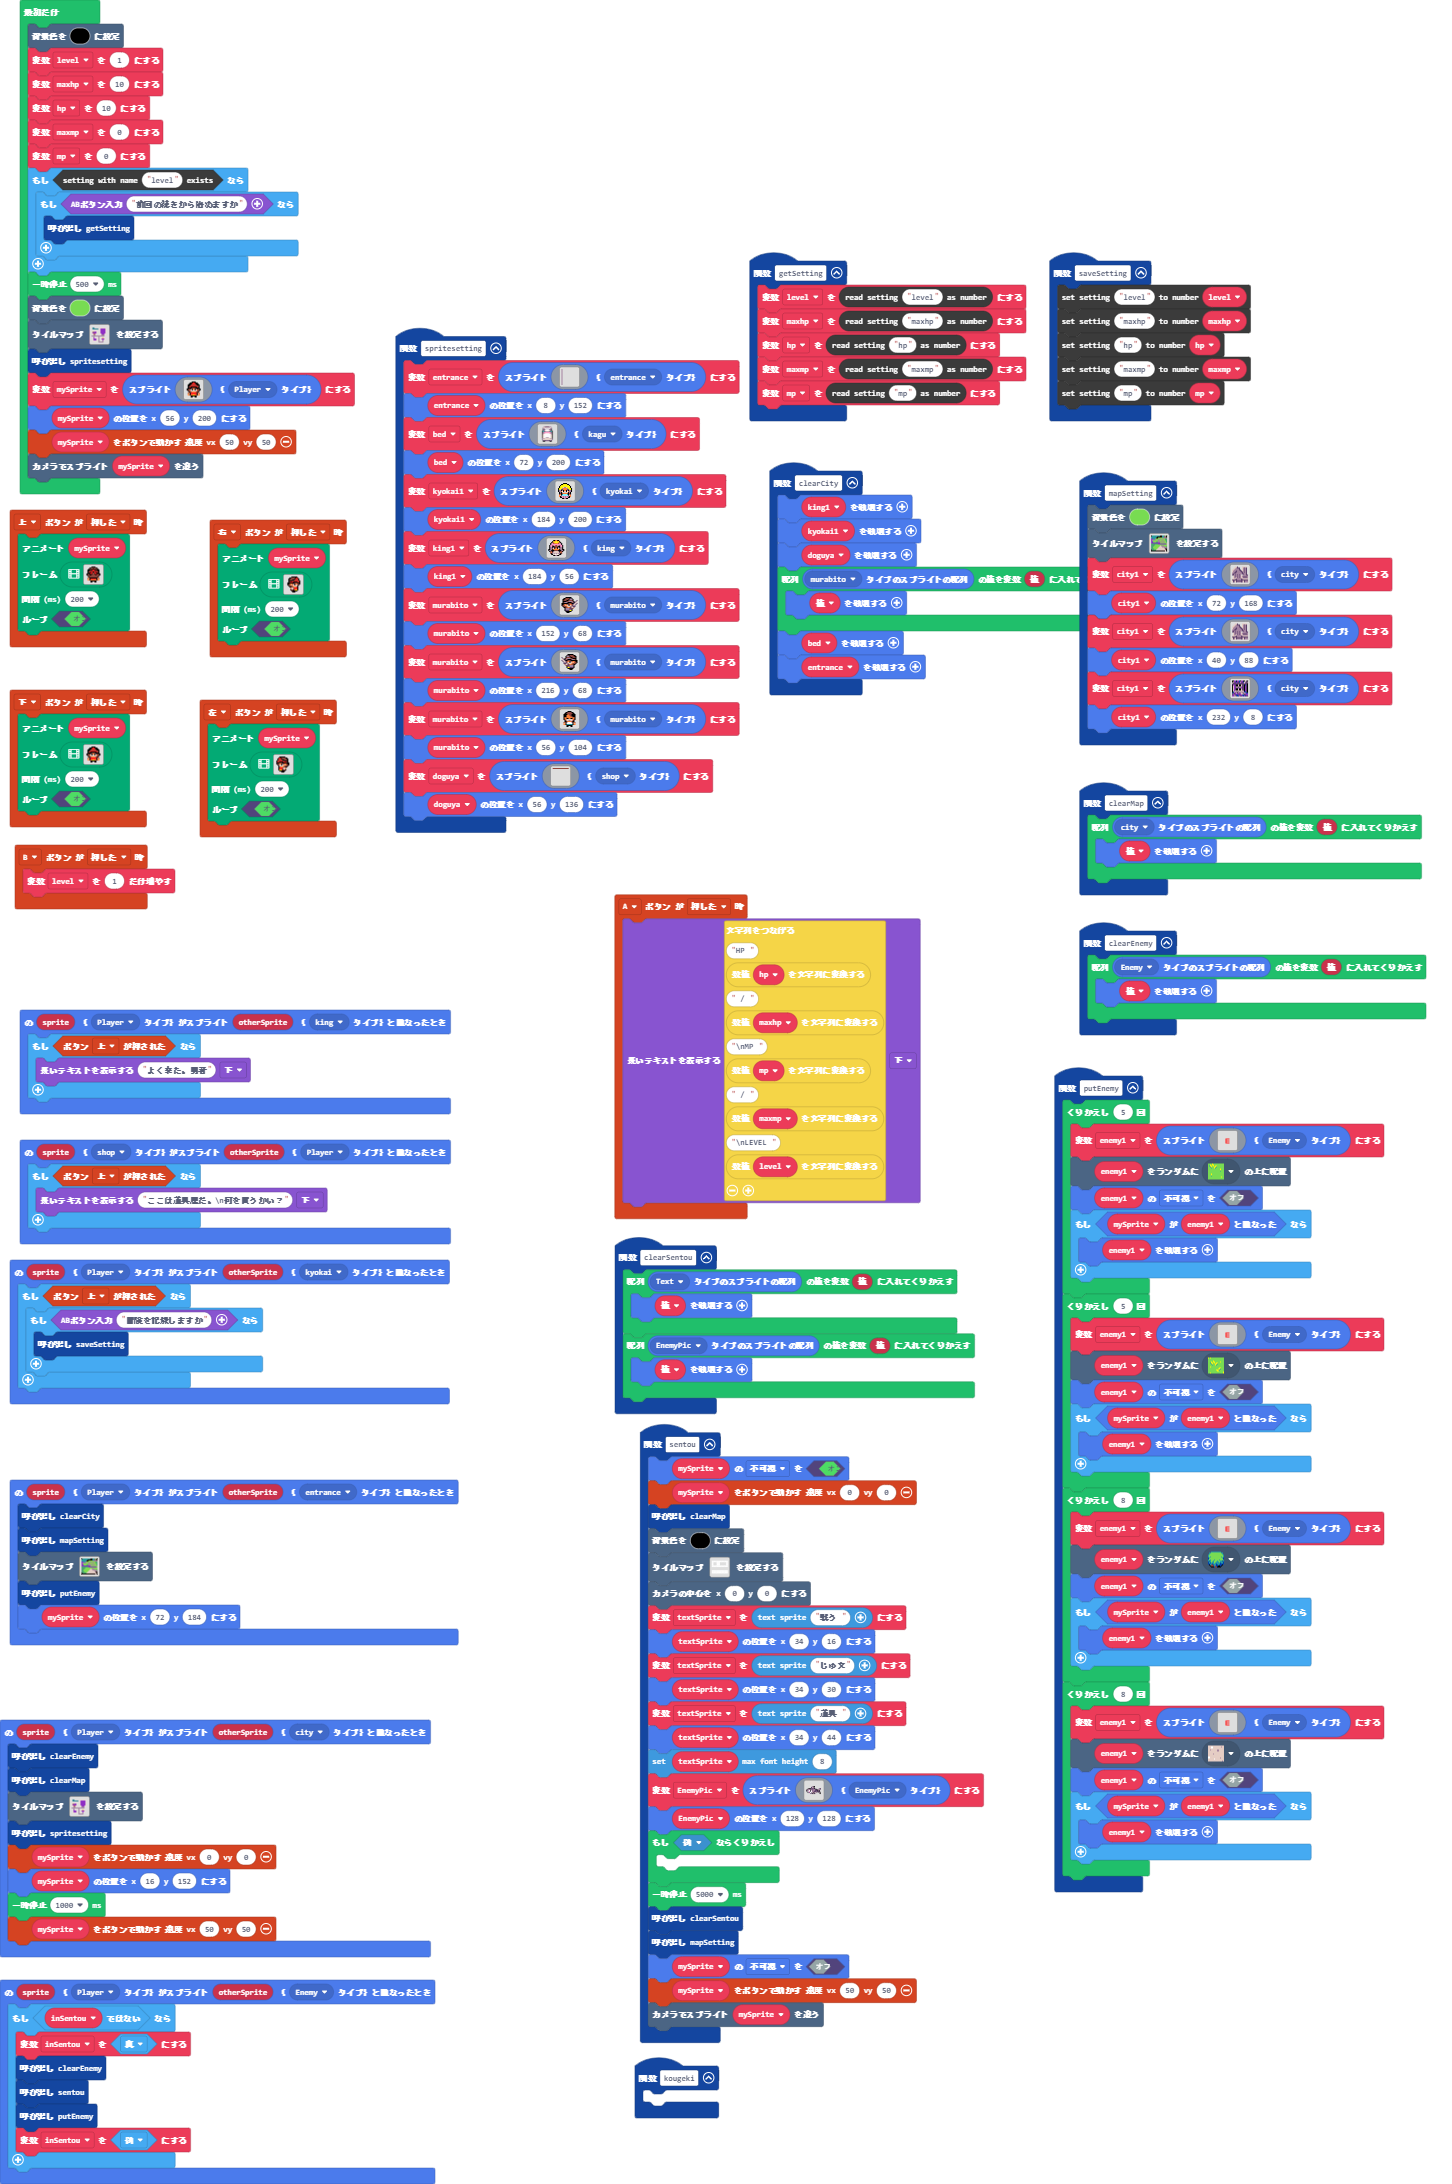
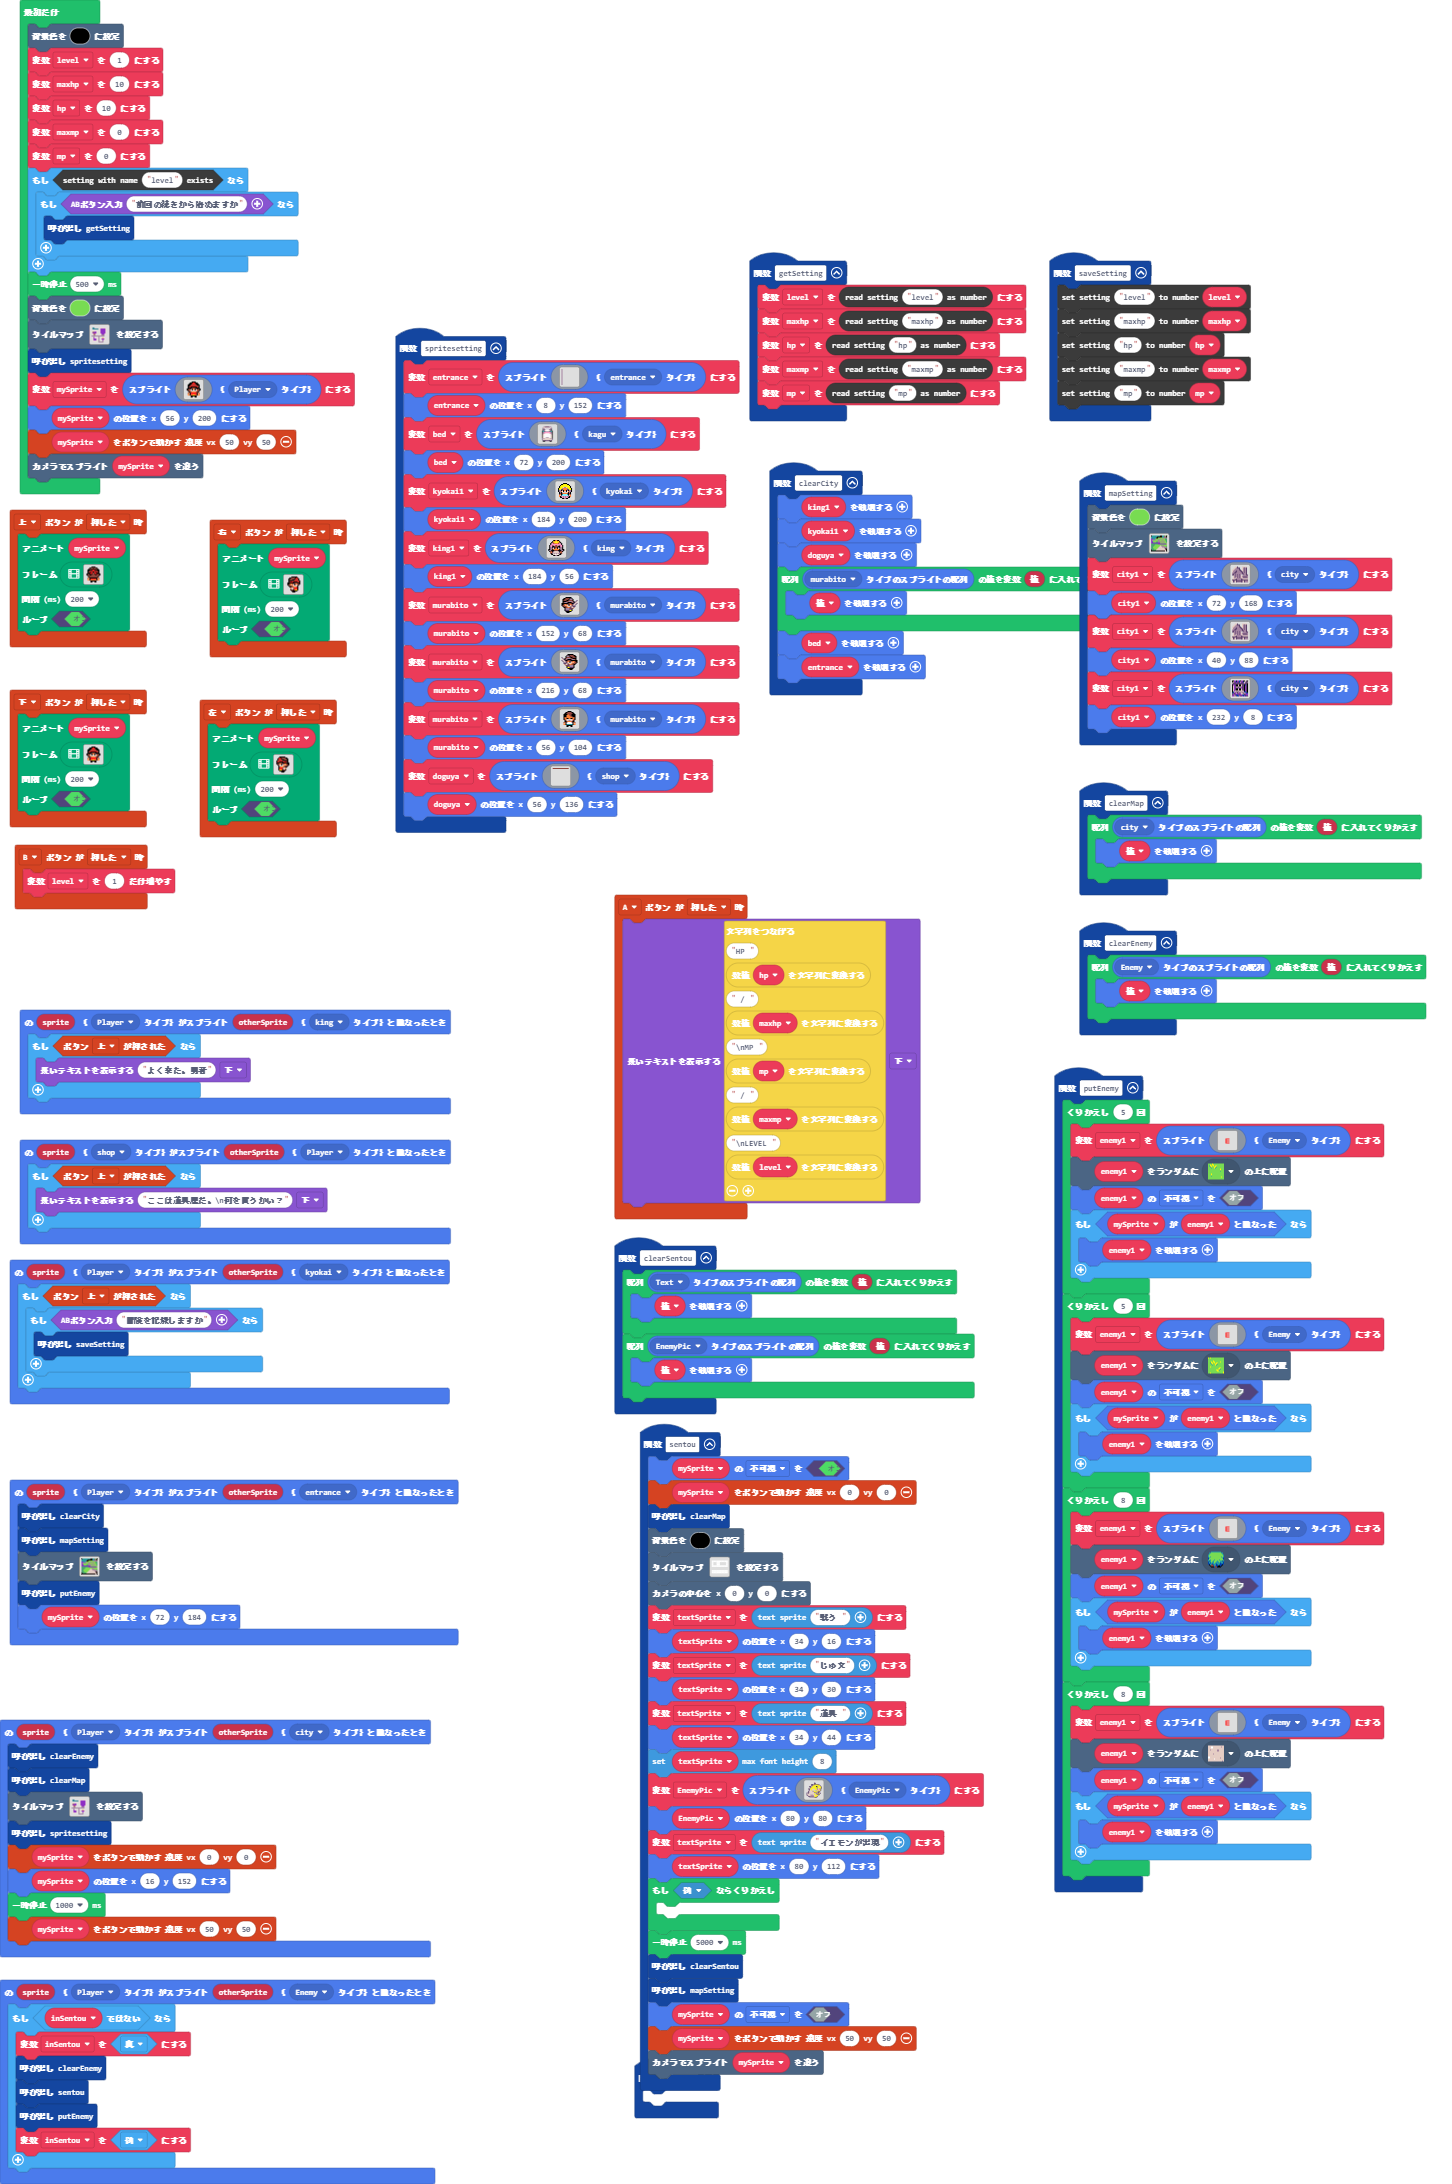
更新 main.blocks, main.ts

diff --git a/main.ts b/main.ts
@@ -385,24 +385,34 @@ function sentou () {
     textSprite.setPosition(34, 44)
     textSprite.setMaxFontHeight(8)
     EnemyPic = sprites.create(img`
-        .............ccfff..............
-        ...........ccddbcf..............
-        ..........ccddbbf...............
-        ..........fccbbcf...............
-        .....fffffccccccff.........ccc..
-        ...ffbbbbbbbcbbbbcfff....ccbbc..
-        ..fbbbbbbbbcbcbbbbcccff.cdbbc...
-        ffbbbbbbffbbcbcbbbcccccfcdbbf...
-        fbcbbb11ff1bcbbbbbcccccffbbf....
-        fbbb11111111bbbbbcccccccbbcf....
-        .fb11133cc11bbbbcccccccccccf....
-        ..fccc31c111bbbcccccbdbffbbcf...
-        ...fc13c111cbbbfcddddcc..fbbf...
-        ....fccc111fbdbbccdcc.....fbbf..
-        ........ccccfcdbbcc........fff..
-        .............fffff..............
+        ........................
+        ............cc..........
+        ............ccc.........
+        ........ccc.ccccccc.....
+        ........ccccc555555cc...
+        ........ccb5555555555c..
+        .....ccc.b55555ff15555c.
+        .....cccb5555555ff55555c
+        ......cb555555555555d55c
+        ....c.b555555555bb55555c
+        ....ccb555ddd5555b13bbc.
+        ....ccd55ddddd555b3335c.
+        .....cdd5ddddddd55b335c.
+        ...c.bddddb555bbbd555c..
+        ...ccdddddbb55555bccc...
+        ...ccdddddddcc555bcc....
+        .ccccdddddddddcccbcccc..
+        .cdcdddddddd55dbbbc55c..
+        .cdddddddddd555dccc5c...
+        .cbddddbbbbdd5d555cc....
+        ..cbdddbbbbbdd5555......
+        ...cccbbbbbbd5555c......
+        .....cccccccc555c.......
+        .............ccc........
         `, SpriteKind.EnemyPic)
-    EnemyPic.setPosition(128, 128)
+    EnemyPic.setPosition(80, 80)
+    textSprite = textsprite.create("イエモンが出現")
+    textSprite.setPosition(80, 112)
     while (false) {
     	
     }
